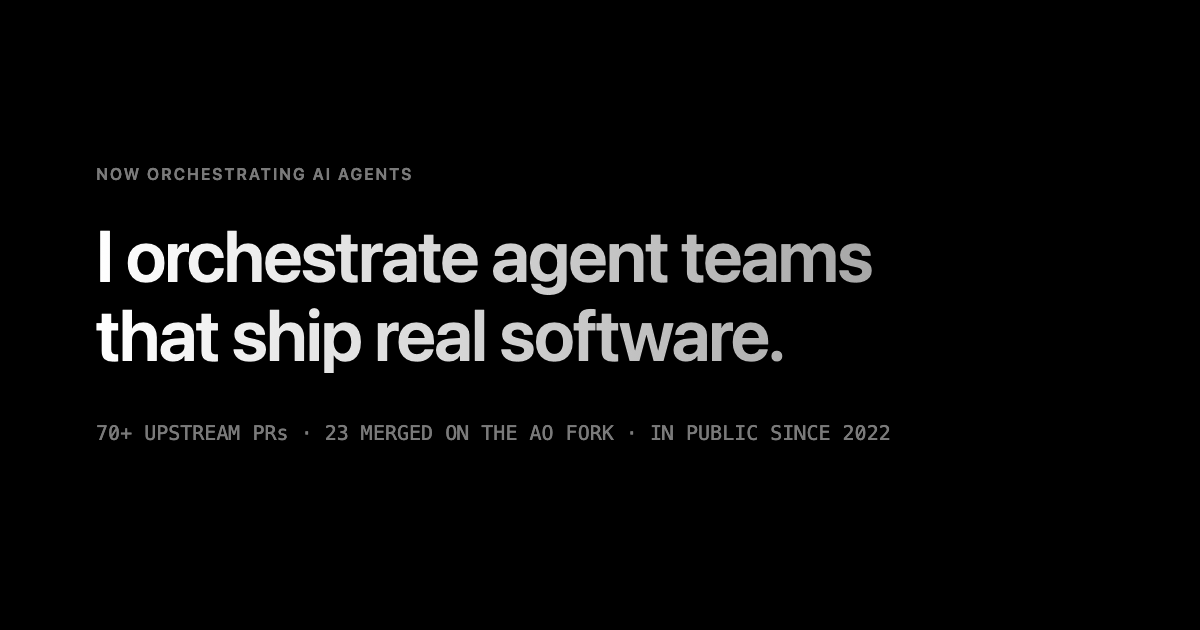
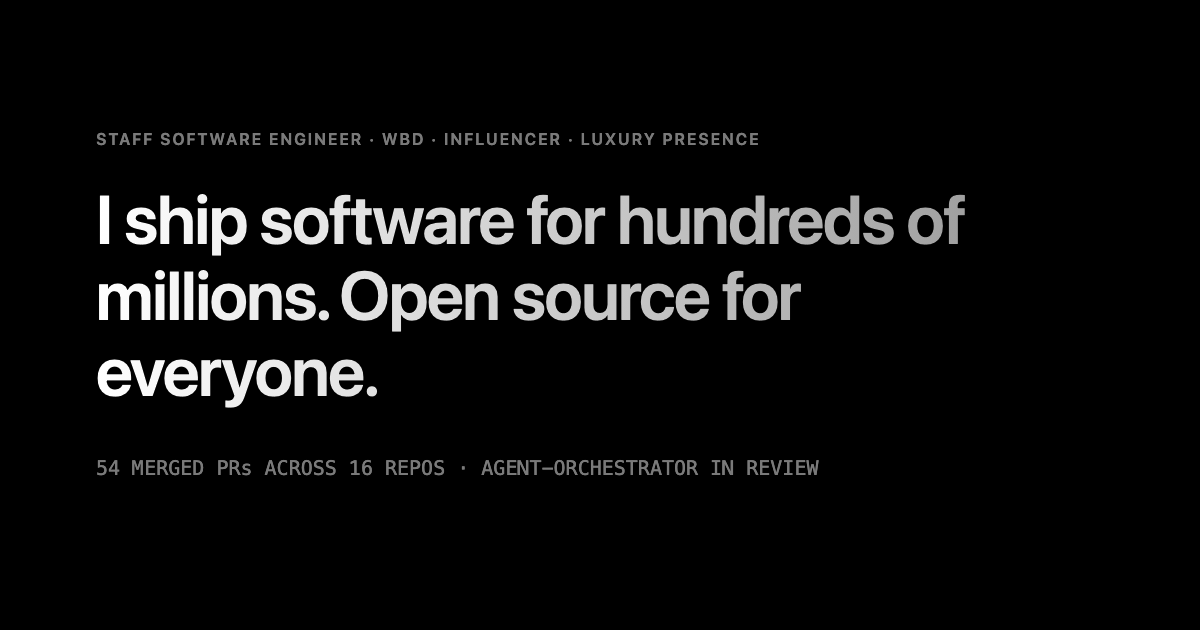
chore: sync from 9229554b59ab1f489d55734451864bdda0b86744

Changed region(s): [[0.0617, 0.2111, 0.8017, 0.6937], [0.2775, 0.6635, 0.74, 0.754], [0.0617, 0.7238, 0.37, 0.754]]

diff --git a/index.html b/index.html
@@ -3,21 +3,21 @@
 <head>
 <meta charset="utf-8">
 <meta name="viewport" content="width=device-width, initial-scale=1">
-<meta name="description" content="I orchestrate AI agent teams that ship real software: 70+ merged upstream PRs, active Agent Orchestrator contributor, adversarial review gates on every diff.">
+<meta name="description" content="Staff engineer behind streaming infrastructure for hundreds of millions at Warner Bros. Discovery, creator discovery at Influencer, and 54 merged PRs across 16 open source repositories — now contributing to agent-orchestrator.">
 <meta property="og:type" content="website">
-<meta property="og:title" content="Wesley Matos — agent orchestration, shipped in public">
-<meta property="og:description" content="I orchestrate AI agent teams that ship real software: 70+ merged upstream PRs, active Agent Orchestrator contributor, adversarial review gates on every diff.">
+<meta property="og:title" content="Wesley Matos — staff engineer · streaming, open source, agent infrastructure">
+<meta property="og:description" content="Staff engineer behind streaming infrastructure for hundreds of millions at Warner Bros. Discovery, creator discovery at Influencer, and 54 merged PRs across 16 open source repositories — now contributing to agent-orchestrator.">
 <meta property="og:url" content="https://wesleymatosdev.github.io/">
 <meta property="og:image" content="https://wesleymatosdev.github.io/og-image.png">
 <meta property="og:image:width" content="1200">
 <meta property="og:image:height" content="630">
-<meta property="og:image:alt" content="Wesley Matos — agent orchestration, shipped in public. 70+ upstream PRs · 23 merged on the AO fork.">
+<meta property="og:image:alt" content="Wesley Matos — staff engineer. I ship software for hundreds of millions. Open source for everyone. 54 merged PRs across 16 repositories.">
 <meta name="twitter:card" content="summary_large_image">
-<meta name="twitter:title" content="Wesley Matos — agent orchestration, shipped in public">
-<meta name="twitter:description" content="I orchestrate AI agent teams that ship real software: 70+ merged upstream PRs, active Agent Orchestrator contributor, adversarial review gates on every diff.">
+<meta name="twitter:title" content="Wesley Matos — staff engineer · streaming, open source, agent infrastructure">
+<meta name="twitter:description" content="Staff engineer behind streaming infrastructure for hundreds of millions at Warner Bros. Discovery, creator discovery at Influencer, and 54 merged PRs across 16 open source repositories — now contributing to agent-orchestrator.">
 <meta name="twitter:image" content="https://wesleymatosdev.github.io/og-image.png">
 <link rel="canonical" href="https://wesleymatosdev.github.io/">
-<title>Wesley Matos — agent orchestration, shipped in public</title>
+<title>Wesley Matos — staff engineer · streaming, open source, agent infrastructure</title>
 <link rel="icon" type="image/svg+xml" href="favicon.svg">
 <link rel="preconnect" href="https://fonts.googleapis.com">
 <link rel="preconnect" href="https://fonts.gstatic.com" crossorigin>
@@ -30,23 +30,23 @@
   "mainEntity": [
     {
       "@type": "Question",
-      "name": "Do agents write all the code?",
-      "acceptedAnswer": { "@type": "Answer", "text": "No. Agents draft; I supervise and review every diff through an adversarial pre-ship gate. Upstream maintainers have merged 70+ of my PRs — agent-assisted, human-accountable." }
+      "name": "Do agents write all your code?",
+      "acceptedAnswer": { "@type": "Answer", "text": "No. Agents are tooling, not a substitute for judgment. Every change still goes through the review and tests I've used since shipping to hundreds of millions of users — a diff merges only when it's right." }
     },
     {
       "@type": "Question",
-      "name": "What does agent orchestration actually mean?",
-      "acceptedAnswer": { "@type": "Answer", "text": "Running many agent sessions as one system: spawn, supervise, steer, review, recover — in AO, with a human on the hook for everything that merges." }
+      "name": "What is agent orchestration, concretely?",
+      "acceptedAnswer": { "@type": "Answer", "text": "Running many agent sessions as one system: spawn, supervise, steer, review, recover. I build the harness itself — my ZCode chat integration and Hermes Agent harness are in review on agent-orchestrator." }
     },
     {
       "@type": "Question",
       "name": "Can I see the work?",
-      "acceptedAnswer": { "@type": "Answer", "text": "Yes. Everything linked is public: upstream PR lists, gbrain, the oss-site catalog. Private pieces are marked honestly, never dead-linked." }
+      "acceptedAnswer": { "@type": "Answer", "text": "Yes — it's the resume, in public form: 54 merged PRs across 16 repositories, including rustfmt, screenpipe, cal.diy and Qdrant. Full table on my GitHub profile." }
     },
     {
       "@type": "Question",
-      "name": "What kind of team is this for?",
-      "acceptedAnswer": { "@type": "Answer", "text": "Teams building AI-native products or developer tooling that want shipping speed without giving up review rigor." }
+      "name": "What size of team and product is this for?",
+      "acceptedAnswer": { "@type": "Answer", "text": "The scale I know: products with real users and real consequences — streaming, fintech, creator platforms — that want AI-native speed without giving up review rigor." }
     },
     {
       "@type": "Question",
@@ -56,7 +56,7 @@
     {
       "@type": "Question",
       "name": "Was this site built by agents?",
-      "acceptedAnswer": { "@type": "Answer", "text": "Yes — built and adversarially reviewed through the current AO pipeline. No build step, static by design, works from file://." }
+      "acceptedAnswer": { "@type": "Answer", "text": "Partly — but the claims on it are all resume: WBD, Influencer, Luxury Presence, and public PRs you can open. No build step, static by design, works from file://." }
     }
   ]
 }
@@ -90,7 +90,7 @@
 
 <div class="menu" id="menu">
   <a class="menu-link" href="#work">Work</a>
-  <a class="menu-link" href="#how">How I work</a>
+  <a class="menu-link" href="#how">How I ship</a>
   <a class="menu-link" href="#now">Now</a>
   <a class="menu-link" href="#timeline">Timeline</a>
   <a class="menu-link" href="#faq">FAQ</a>
@@ -104,22 +104,22 @@
   <!-- Hero -->
   <section class="hero" id="top">
     <div class="container">
-      <p class="eyebrow caption-3">NOW ORCHESTRATING AI AGENTS</p>
-      <h1 class="heading-1 measure">I orchestrate<br>agent teams that<br>ship real software.</h1>
-      <p class="hero-sub body-3 measure">Four years shipping in public — 70+ merged upstream PRs, active Agent Orchestrator contributor, and an adversarial review gate on every diff.</p>
+      <p class="eyebrow caption-3">STAFF SOFTWARE ENGINEER · WBD · INFLUENCER · LUXURY PRESENCE</p>
+      <h1 class="heading-1 measure">I ship software<br>for hundreds of millions.<br>Open source<br>for everyone.</h1>
+      <p class="hero-sub body-3 measure">Staff engineer at Warner Bros. Discovery (streaming CDNs, GraphQL at 15–25M requests a day), Influencer (creator discovery, API latency down 97%) and Luxury Presence. 54 merged PRs across 16 open source repositories. Now: native ZCode chat and a Hermes Agent harness in agent-orchestrator, both in review.</p>
       <div class="hero-actions">
         <a class="btn-primary button-md" href="mailto:wesleymatosdev@gmail.com">Email me
           <svg aria-hidden="true"><use href="#i-mail"/></svg>
         </a>
       </div>
-      <p class="hero-proof caption-4">70+ upstream PRs · 23 merged on the AO fork · in public since 2022</p>
+      <p class="hero-proof caption-4">WARNER BROS. DISCOVERY · INFLUENCER · LUXURY PRESENCE · 54 PRs IN 16 REPOS</p>
     </div>
   </section>
 
   <!-- Tagline reveal (B11) -->
-  <section class="tagline" aria-label="Measured, not vibes">
+  <section class="tagline" aria-label="Eight years of production engineering">
     <div class="container">
-      <p class="tagline-text heading-3 measure">Measured, not vibes. Every number on this page links to its source.</p>
+      <p class="tagline-text heading-3 measure">Eight years of production engineering. The scale changed every year — the standard never did.</p>
     </div>
   </section>
 
@@ -127,54 +127,53 @@
   <section class="section reveal" aria-labelledby="proof-title">
     <div class="container">
       <div class="section-head">
-        <p class="eyebrow caption-3">PROOF</p>
-        <h2 class="section-title heading-3" id="proof-title">Numbers you can open.</h2>
+        <p class="eyebrow caption-3">TRACK RECORD</p>
+        <h2 class="section-title heading-3" id="proof-title">The scale, straight from the resume.</h2>
       </div>
       <div class="proof-grid">
-        <a class="proof-item" href="https://github.com/search?q=author%3Awesleymatosdev+type%3Apr+is%3Amerged+-user%3Awesleymatosdev&type=pullrequests" target="_blank" rel="noopener">
-          <span class="proof-number heading-4">70+</span>
-          <span class="proof-label caption-4">upstream PRs merged</span>
-        </a>
-        <a class="proof-item" href="https://github.com/wesleymatosdev/agent-orchestrator/pulls?q=is%3Apr+author%3Awesleymatosdev" target="_blank" rel="noopener">
-          <span class="proof-number heading-4">23 merged</span>
-          <span class="proof-label caption-4">PRs on the Agent Orchestrator fork (+4 open)</span>
-        </a>
-        <a class="proof-item" href="https://github.com/wesleymatosdev/oss-site" target="_blank" rel="noopener">
-          <span class="proof-number heading-4">77</span>
-          <span class="proof-label caption-4">OSS projects cataloged (oss-site, 8 groups)</span>
-        </a>
+        <span class="proof-item">
+          <span class="proof-number heading-4">95M</span>
+          <span class="proof-label caption-4">HBO viewers served by CDNs I maintained</span>
+        </span>
+        <span class="proof-item">
+          <span class="proof-number heading-4">$5M/yr</span>
+          <span class="proof-label caption-4">saved by replacing a legacy CMS at Warner Bros. Discovery</span>
+        </span>
+        <span class="proof-item">
+          <span class="proof-number heading-4">30s → 900ms</span>
+          <span class="proof-label caption-4">third-party API latency, cut 97% at Influencer</span>
+        </span>
         <a class="proof-item" href="https://github.com/wesleymatosdev" target="_blank" rel="noopener">
-          <span class="proof-number heading-4">4+ years</span>
-          <span class="proof-label caption-4">shipping in public (since Feb 2022)</span>
+          <span class="proof-number heading-4">54</span>
+          <span class="proof-label caption-4">merged PRs across 16 open source repositories</span>
         </a>
       </div>
-      <p class="proof-note caption-4">PUBLIC GITHUB API · OWN REPOS EXCLUDED · OCT 2026</p>
     </div>
   </section>
 
-  <!-- How I work -->
+  <!-- How I ship -->
   <section class="section reveal" id="how" aria-labelledby="how-title">
     <div class="container">
       <div class="section-head">
-        <p class="eyebrow caption-3">HOW I WORK</p>
-        <h2 class="section-title heading-3" id="how-title">Agents draft. I stay on the hook.</h2>
+        <p class="eyebrow caption-3">HOW I SHIP</p>
+        <h2 class="section-title heading-3" id="how-title">What I bring.</h2>
       </div>
       <div class="work-list">
         <div class="work-item">
           <svg aria-hidden="true"><use href="#i-binoculars"/></svg>
-          <p class="body-3"><strong class="body-1">Supervise, not spectate:</strong> agent sessions in AO — spawn, steer, review, recover CI when it breaks.</p>
-        </div>
-        <div class="work-item">
-          <svg aria-hidden="true"><use href="#i-shield"/></svg>
-          <p class="body-3"><strong class="body-1">Every diff passes no-mistakes,</strong> an adversarial pre-ship gate (private, runs locally — marked honestly).</p>
-        </div>
-        <div class="work-item">
-          <svg aria-hidden="true"><use href="#i-brain"/></svg>
-          <p class="body-3"><strong class="body-1">gbrain keeps the memory:</strong> facts with sources, confidence, linked recall.</p>
+          <p class="body-3"><strong class="body-1">Scale:</strong> multi-region, multi-cloud CDNs at Warner Bros. Discovery — AWS, Fastly, GCP, Akamai — serving hundreds of millions toward a 99.99999% availability target.</p>
         </div>
         <div class="work-item">
           <svg aria-hidden="true"><use href="#i-clock"/></svg>
-          <p class="body-3"><strong class="body-1">Before AO:</strong> a Hermes-coordinated agent fleet. The practice survived; the architecture moved on.</p>
+          <p class="body-3"><strong class="body-1">Speed:</strong> creator discovery at Influencer — AI inference with creator, audience and demographic filters, vector search over embeddings, third-party API latency down from 30s to 900ms.</p>
+        </div>
+        <div class="work-item">
+          <svg aria-hidden="true"><use href="#i-shield"/></svg>
+          <p class="body-3"><strong class="body-1">Rigor:</strong> test infrastructure that holds — Testcontainers against live PostgreSQL, SQS and Redis, 100+ test cases, an SDK replacing 10,000+ duplicated lines across six microservices.</p>
+        </div>
+        <div class="work-item">
+          <svg aria-hidden="true"><use href="#i-brain"/></svg>
+          <p class="body-3"><strong class="body-1">Agents:</strong> native ZCode chat and a Hermes Agent harness for agent-orchestrator, both in review upstream — shipped the same way I've always shipped: reviewed, tested, merged.</p>
         </div>
       </div>
     </div>
@@ -188,44 +187,44 @@
         <h2 class="section-title heading-3" id="work-title">Five things you can open.</h2>
       </div>
       <div class="card-stack">
-        <a class="card" href="https://github.com/wesleymatosdev/agent-orchestrator/pulls?q=is%3Apr+author%3Awesleymatosdev" target="_blank" rel="noopener">
+        <a class="card" href="https://github.com/OrchestratorInc/agent-orchestrator/pull/6003" target="_blank" rel="noopener">
           <span class="card-top">
             <span class="card-name title-1">Agent Orchestrator</span>
             <span class="card-badge caption-3">FLAGSHIP</span>
             <svg class="card-arrow" aria-hidden="true"><use href="#i-arrow"/></svg>
           </span>
-          <span class="card-desc body-3">23 merged + 4 open PRs on my fork; upstreaming agent harnesses and chat integrations to OrchestratorInc/agent-orchestrator.</span>
+          <span class="card-desc body-3">Native ZCode chat integration (#6003) and a Hermes Agent harness with ACP chat (#6635), both in review on OrchestratorInc/agent-orchestrator.</span>
         </a>
-        <a class="card" href="https://github.com/wesleymatosdev/gbrain" target="_blank" rel="noopener">
+        <a class="card" href="https://github.com/mediar-ai/screenpipe" target="_blank" rel="noopener">
           <span class="card-top">
-            <span class="card-name title-1">gbrain</span>
+            <span class="card-name title-1">screenpipe</span>
             <svg class="card-arrow" aria-hidden="true"><use href="#i-arrow"/></svg>
           </span>
-          <span class="card-desc body-3">Memory OS: sourced facts, confidence, linked recall. In daily use.</span>
+          <span class="card-desc body-3">Early contributor, 22 merged PRs: CI/CD pipelines, Deno and Bun SDK test automation, multi-monitor support with real monitor names, H.265 capture on macOS.</span>
         </a>
-        <a class="card" href="https://github.com/wesleymatosdev/oss-site" target="_blank" rel="noopener">
+        <a class="card" href="https://github.com/rust-lang/rustfmt" target="_blank" rel="noopener">
           <span class="card-top">
-            <span class="card-name title-1">oss-site</span>
+            <span class="card-name title-1">rustfmt</span>
             <svg class="card-arrow" aria-hidden="true"><use href="#i-arrow"/></svg>
           </span>
-          <span class="card-desc body-3">A catalog of 77 open-source projects across 8 groups, regenerated by a deterministic script.</span>
+          <span class="card-desc body-3">Semver support for the required_version flag in the official Rust formatter, per the Rust Book spec (#6066, #7048).</span>
+        </a>
+        <a class="card" href="https://github.com/calcom/cal.diy" target="_blank" rel="noopener">
+          <span class="card-top">
+            <span class="card-name title-1">cal.diy</span>
+            <svg class="card-arrow" aria-hidden="true"><use href="#i-arrow"/></svg>
+          </span>
+          <span class="card-desc body-3">QA and test automation for payments, calendar and webhooks — five merged PRs (#8721, #10137, #10243, #10654, #11318).</span>
         </a>
         <a class="card" href="https://github.com/nashaofu/xcap/pulls?q=is%3Apr+author%3Awesleymatosdev+is%3Amerged" target="_blank" rel="noopener">
           <span class="card-top">
             <span class="card-name title-1">xcap</span>
             <svg class="card-arrow" aria-hidden="true"><use href="#i-arrow"/></svg>
           </span>
-          <span class="card-desc body-3">3 merged upstream PRs (macOS focus APIs) in nashaofu/xcap, a Rust screen-capture library.</span>
-        </a>
-        <a class="card" href="https://github.com/NousResearch/hermes-agent/pulls?q=is%3Apr+author%3Awesleymatosdev+is%3Aopen" target="_blank" rel="noopener">
-          <span class="card-top">
-            <span class="card-name title-1">hermes-agent</span>
-            <svg class="card-arrow" aria-hidden="true"><use href="#i-arrow"/></svg>
-          </span>
-          <span class="card-desc body-3">Open upstream PRs on NousResearch/hermes-agent.</span>
+          <span class="card-desc body-3">Real-time tracking of open apps and connected monitors via Apple APIs (#191, #206) in a Rust screen-capture library.</span>
         </a>
       </div>
-      <p class="also caption-4">ALSO: <a href="https://github.com/kingsword09/zcode-cli/pull/136" target="_blank" rel="noopener">zcode-cli PR #136 merged upstream</a> · <a href="https://github.com/zanfranceschi/rinha-de-backend-2025/pulls?q=is%3Apr+author%3Awesleymatosdev+is%3Amerged" target="_blank" rel="noopener">rinha de backend 2025 (3 PRs)</a> · no-mistakes gate (private)</p>
+      <p class="also caption-4">ALSO: <a href="https://github.com/triggerdotdev/trigger.dev" target="_blank" rel="noopener">trigger.dev (ESLint plugin + CLI tests)</a> · <a href="https://github.com/qdrant/qdrant" target="_blank" rel="noopener">Qdrant read-only API keys</a> · <a href="https://github.com/zio/zio-json" target="_blank" rel="noopener">zio-json 256-bit integers</a> · <a href="https://github.com/permitio/docs" target="_blank" rel="noopener">Permit.io docs upgrade</a> · <a href="https://github.com/wesleymatosdev/gbrain" target="_blank" rel="noopener">gbrain</a> · <a href="https://github.com/wesleymatosdev/oss-site" target="_blank" rel="noopener">oss-site</a></p>
     </div>
   </section>
 
@@ -234,12 +233,12 @@
     <div class="container">
       <div class="section-head">
         <p class="eyebrow caption-3">NOW</p>
-        <h2 class="section-title heading-3" id="now-title">What October looks like.</h2>
+        <h2 class="section-title heading-3" id="now-title">Current work.</h2>
       </div>
       <div class="now-list">
         <div class="now-item">
           <span class="now-tag caption-3">UPSTREAM</span>
-          <p class="body-3">Upstreaming Agent Orchestrator (<a href="https://github.com/wesleymatosdev/agent-orchestrator/pulls?q=is%3Apr+author%3Awesleymatosdev+is%3Amerged" target="_blank" rel="noopener">Hermes Agent harness + ZCode chat integration merged on the fork</a>; <a href="https://github.com/OrchestratorInc/agent-orchestrator/pulls?q=is%3Apr+author%3Awesleymatosdev+is%3Aopen" target="_blank" rel="noopener">open PRs into OrchestratorInc/agent-orchestrator</a>).</p>
+          <p class="body-3"><a href="https://github.com/OrchestratorInc/agent-orchestrator/pull/6003" target="_blank" rel="noopener">ZCode chat integration (#6003)</a> and <a href="https://github.com/OrchestratorInc/agent-orchestrator/pull/6635" target="_blank" rel="noopener">Hermes Agent harness with ACP chat (#6635)</a> in review on OrchestratorInc/agent-orchestrator.</p>
         </div>
         <div class="now-item">
           <span class="now-tag caption-3">OPEN</span>
@@ -263,35 +262,35 @@
     <div class="container">
       <div class="section-head">
         <p class="eyebrow caption-3">TIMELINE</p>
-        <h2 class="section-title heading-3" id="timeline-title">Four years, one direction.</h2>
+        <h2 class="section-title heading-3" id="timeline-title">From São Paulo to streaming.</h2>
       </div>
       <div class="timeline">
         <article class="era">
-          <span class="era-year caption-3">2022</span>
+          <span class="era-year caption-3">2018–2021</span>
           <div>
-            <h3 class="era-title title-1">Foundations</h3>
-            <p class="era-body body-3">Polyglot fundamentals in public (Java, Go, TypeScript, C); distributed systems by doing (Kafka, WebRTC, REST, blockchain internals).</p>
+            <h3 class="era-title title-1">Product engineering</h3>
+            <p class="era-body body-3">Fintech and healthcare in São Paulo: order processing cut from 300 to 5 seconds at FCamara, 80% fewer bug reports at Provi. Taught 200+ students web development with Meta's Hack Station.</p>
           </div>
         </article>
         <article class="era">
-          <span class="era-year caption-3">2023–2024</span>
+          <span class="era-year caption-3">2022–2025</span>
           <div>
-            <h3 class="era-title title-1">Systems</h3>
-            <p class="era-body body-3">Rust and Go deep work (performance, WASM boundaries, sharp CLIs); rinha de backend throughput contests — measuring instead of guessing.</p>
+            <h3 class="era-title title-1">Warner Bros. Discovery</h3>
+            <p class="era-body body-3">Senior engineer on the streaming platform: legacy CMS replaced (saving $5M a year), GraphQL APIs at 15–25M requests a day, Kafka and SQS pipelines for HBO, TNT and DC, 100+ CVEs remediated across 50+ repositories.</p>
           </div>
         </article>
         <article class="era">
           <span class="era-year caption-3">2025</span>
           <div>
-            <h3 class="era-title title-1">Upstream</h3>
-            <p class="era-body body-3">70+ PRs merged across twenty-plus upstream projects: rust-lang/rustfmt, screenpipe, tailcall, xcap, permitio/docs, zio-json and friends.</p>
+            <h3 class="era-title title-1">Staff year</h3>
+            <p class="era-body body-3">Cloud/SRE on the multi-region CDNs behind hbomax.com, cnn.com and discoveryplus.com (95M viewers on HBO alone); Luxury Presence: Testcontainers, 100+ test cases, an SDK replacing 10,000+ duplicated lines.</p>
           </div>
         </article>
         <article class="era">
           <span class="era-year caption-3">2026</span>
           <div>
-            <h3 class="era-title title-1">Orchestrator</h3>
-            <p class="era-body body-3">Senior full-stack → tech lead → agent orchestrator: supervising agent teams in AO and contributing the tooling upstream.</p>
+            <h3 class="era-title title-1">Influencer → agents</h3>
+            <p class="era-body body-3">Staff engineer on creator discovery — AI inference, vector search, third-party API latency from 30s to 900ms. Now contributing agent-orchestrator upstream.</p>
           </div>
         </article>
       </div>
@@ -307,20 +306,20 @@
       </div>
       <div class="faq-list">
         <div class="faq-item">
-          <h3 class="faq-q title-1">Do agents write all the code?</h3>
-          <p class="faq-a body-3">No. Agents draft; I supervise and review every diff through an adversarial pre-ship gate. Upstream maintainers have merged 70+ of my PRs — agent-assisted, human-accountable.</p>
+          <h3 class="faq-q title-1">Do agents write all your code?</h3>
+          <p class="faq-a body-3">No. Agents are tooling, not a substitute for judgment. Every change still goes through the review and tests I've used since shipping to hundreds of millions of users — a diff merges only when it's right.</p>
         </div>
         <div class="faq-item">
-          <h3 class="faq-q title-1">What does agent orchestration actually mean?</h3>
-          <p class="faq-a body-3">Running many agent sessions as one system: spawn, supervise, steer, review, recover — in AO, with a human on the hook for everything that merges.</p>
+          <h3 class="faq-q title-1">What is agent orchestration, concretely?</h3>
+          <p class="faq-a body-3">Running many agent sessions as one system: spawn, supervise, steer, review, recover. I build the harness itself — my ZCode chat integration and Hermes Agent harness are in review on agent-orchestrator.</p>
         </div>
         <div class="faq-item">
           <h3 class="faq-q title-1">Can I see the work?</h3>
-          <p class="faq-a body-3">Yes. Everything linked is public: upstream PR lists, gbrain, the oss-site catalog. Private pieces are marked honestly, never dead-linked.</p>
+          <p class="faq-a body-3">Yes — it's the resume, in public form: 54 merged PRs across 16 repositories, including rustfmt, screenpipe, cal.diy and Qdrant. Full table on my GitHub profile.</p>
         </div>
         <div class="faq-item">
-          <h3 class="faq-q title-1">What kind of team is this for?</h3>
-          <p class="faq-a body-3">Teams building AI-native products or developer tooling that want shipping speed without giving up review rigor.</p>
+          <h3 class="faq-q title-1">What size of team and product is this for?</h3>
+          <p class="faq-a body-3">The scale I know: products with real users and real consequences — streaming, fintech, creator platforms — that want AI-native speed without giving up review rigor.</p>
         </div>
         <div class="faq-item">
           <h3 class="faq-q title-1">How do you prefer to be reached?</h3>
@@ -328,7 +327,7 @@
         </div>
         <div class="faq-item">
           <h3 class="faq-q title-1">Was this site built by agents?</h3>
-          <p class="faq-a body-3">Yes — built and adversarially reviewed through the current AO pipeline. No build step, static by design, works from file://.</p>
+          <p class="faq-a body-3">Partly — but the claims on it are all resume: WBD, Influencer, Luxury Presence, and public PRs you can open. No build step, static by design, works from file://.</p>
         </div>
       </div>
     </div>
@@ -339,7 +338,7 @@
     <div class="container">
       <div class="section-head">
         <p class="eyebrow caption-3">CONTACT</p>
-        <h2 class="section-title heading-3" id="contact-title">One click, straight to me.</h2>
+        <h2 class="section-title heading-3" id="contact-title">Email works fastest.</h2>
       </div>
       <div class="contact-actions">
         <a class="btn-primary button-md" href="mailto:wesleymatosdev@gmail.com">Email me
@@ -359,7 +358,7 @@
 
 <footer class="footer">
   <div class="container">
-    <p class="footer-meta caption-4">Built through the current AO pipeline · adversarially reviewed · no build step · works from file://</p>
+    <p class="footer-meta caption-4">No build step · static by design · works from file://</p>
     <p class="footer-meta caption-4">© 2026 Wesley Matos</p>
   </div>
 </footer>
